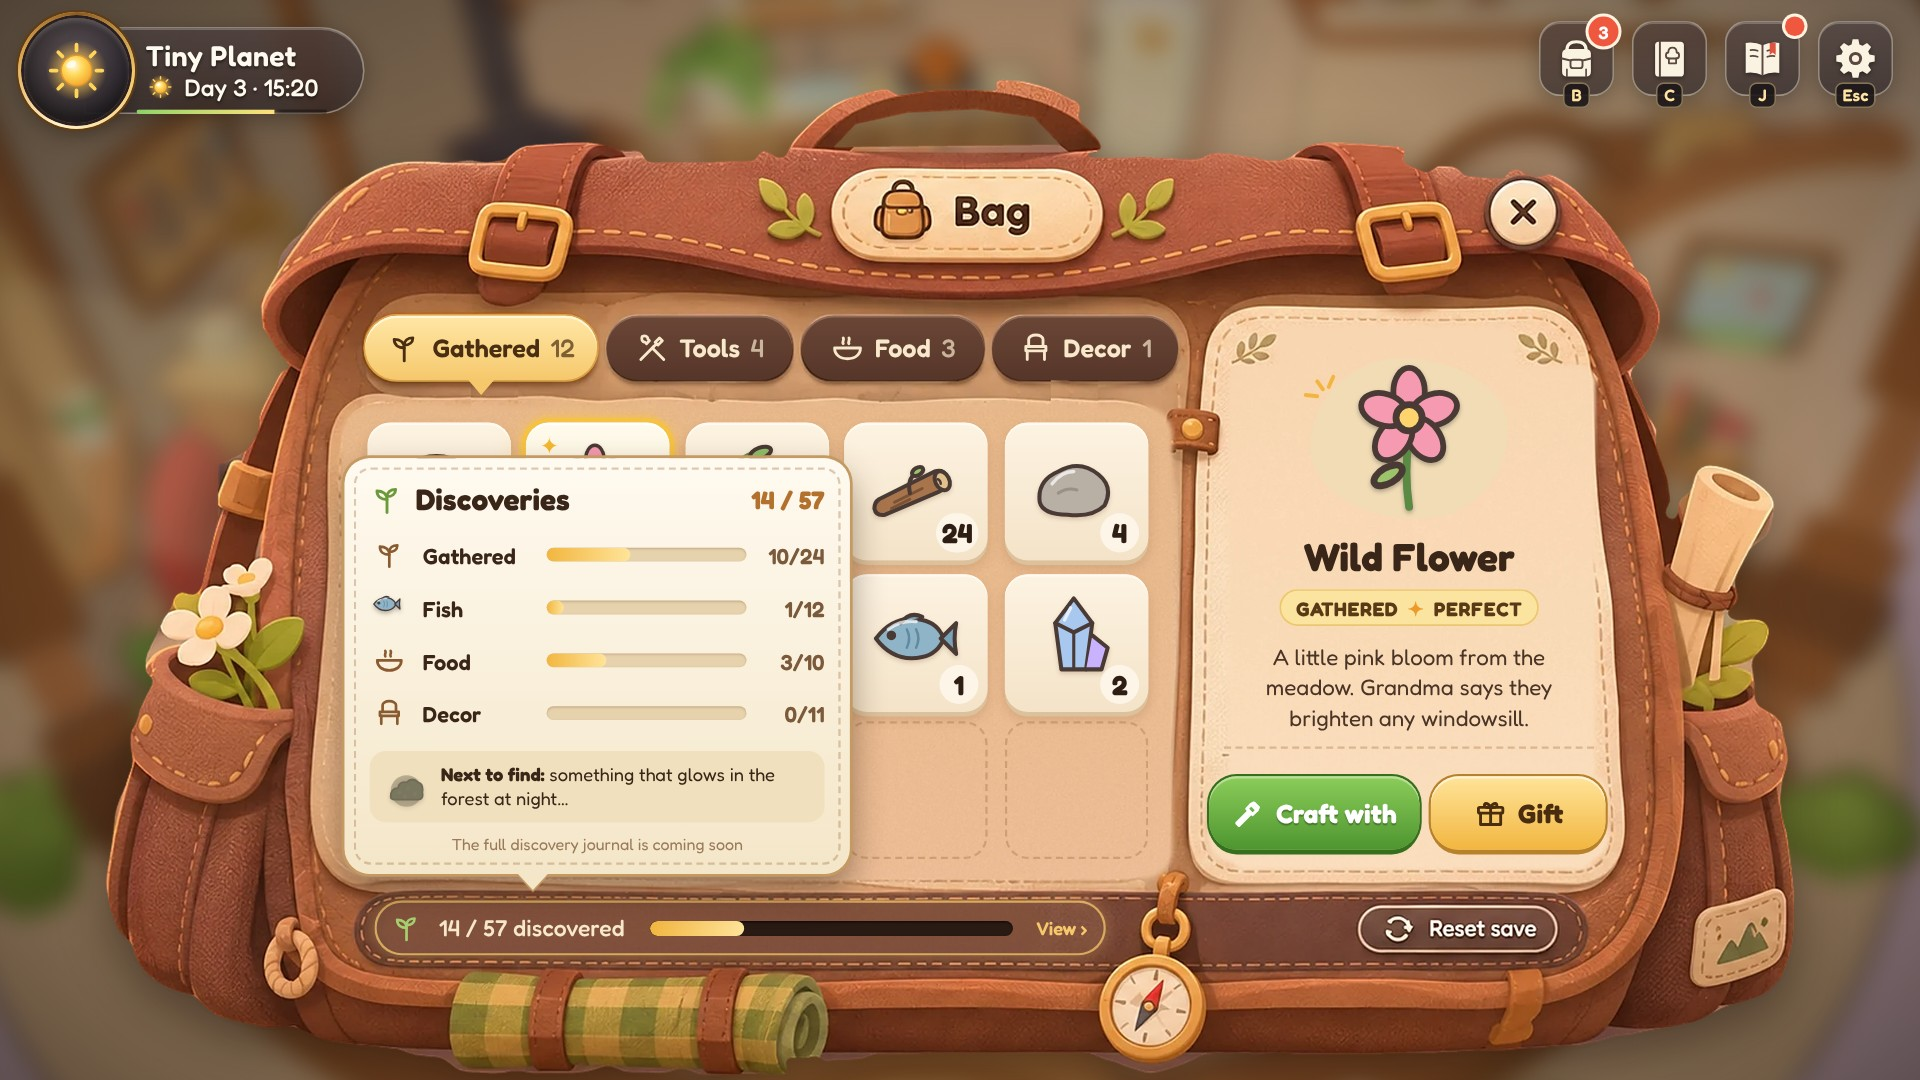
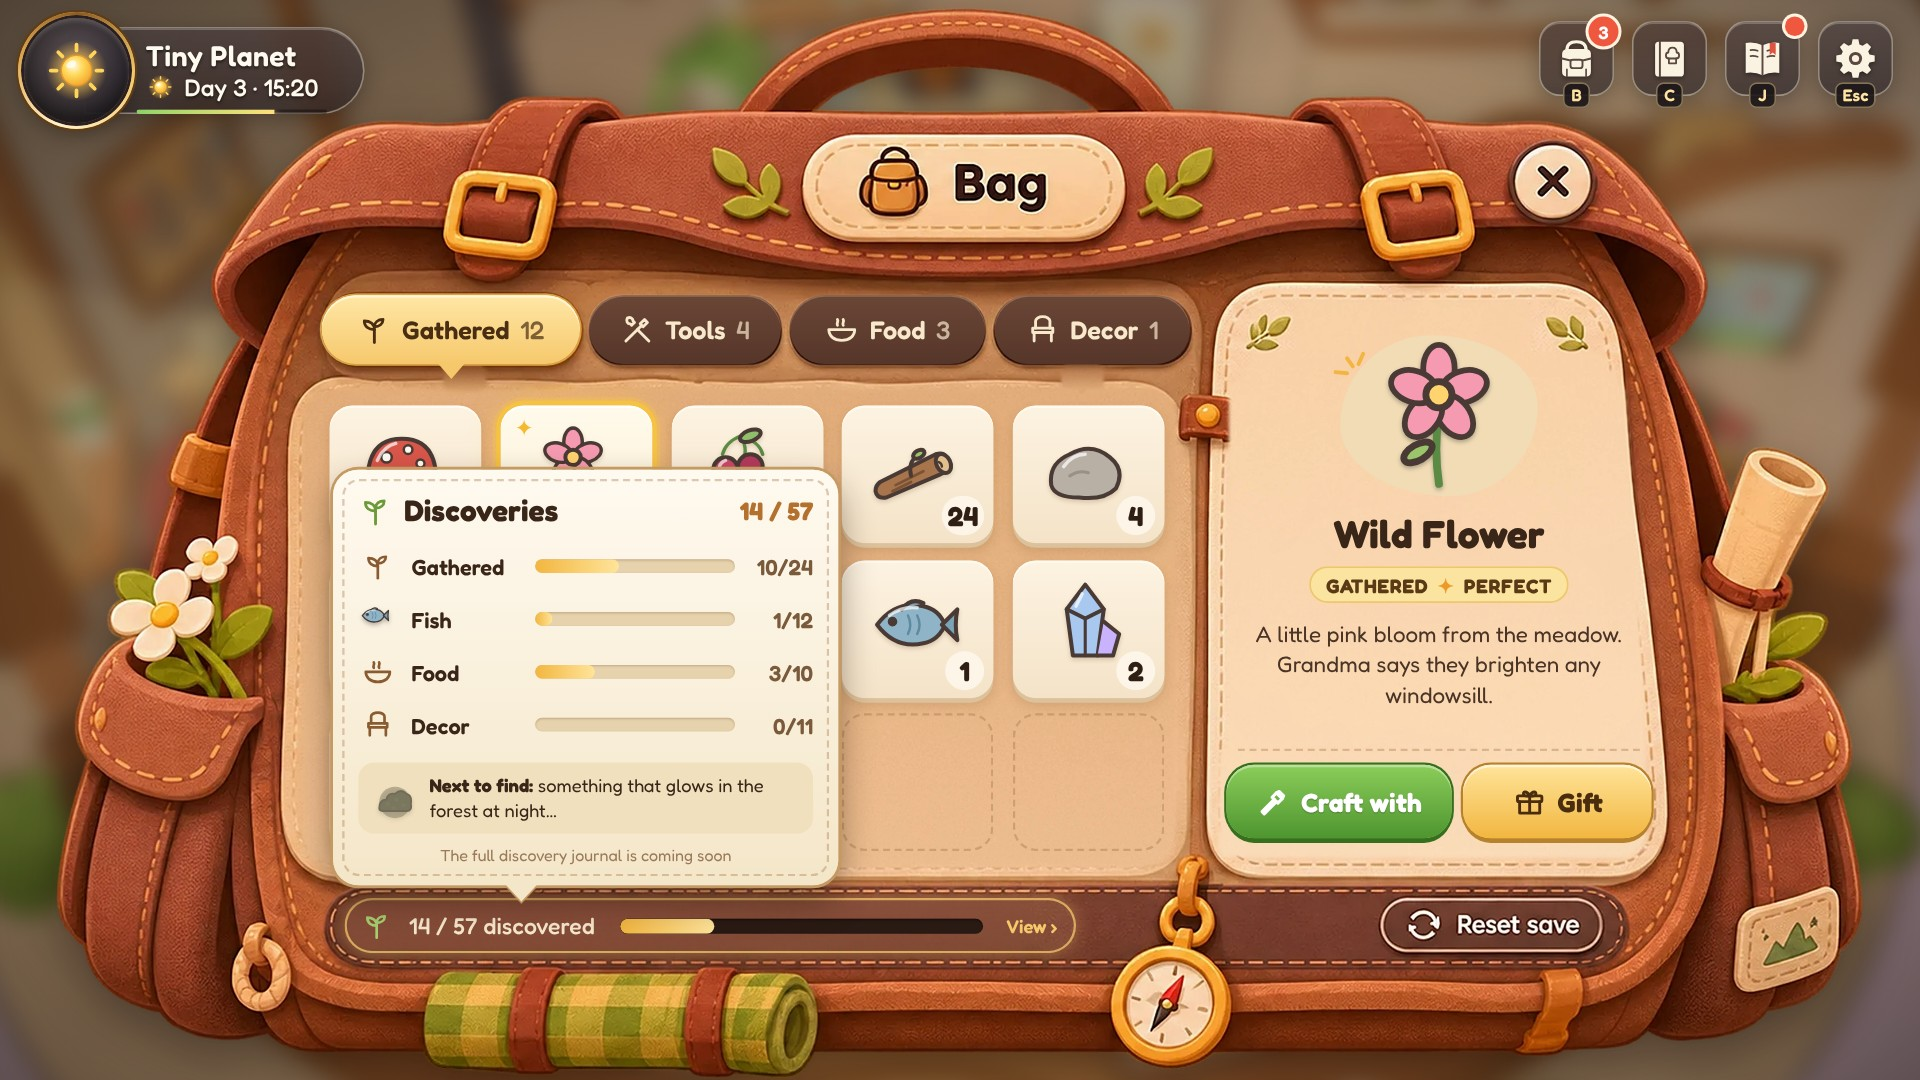
Bag mock: switch to the clean transparent bag art (ref2), re-mapped live layer + hotspots
Claude-Session: https://claude.ai/code/session_01CNaBwLKpSJahPyEzLh7zFH

diff --git a/ui-mocks/a/bag3.html b/ui-mocks/a/bag3.html
@@ -10,13 +10,13 @@ html,body{margin:0;width:1280px;height:720px;overflow:hidden;background:#3a2a20}
 /* the bag is authored in the reference image's own pixel space (1672x941) and scaled to fit */
 .bag{position:absolute;left:0;top:0;width:1672px;height:941px;transform-origin:0 0;transform:scale(.7656);font-family:var(--font);color:#3a2618;text-shadow:none}
 .bag>img{position:absolute;inset:0;width:100%;height:100%;filter:drop-shadow(0 16px 22px rgba(20,8,2,.45))}
-.tb{position:absolute;top:275px;height:56px;border-radius:28px;display:flex;align-items:center;justify-content:center;gap:9px;font-size:22px;font-weight:600;color:#f8e8cc;
+.tb{position:absolute;top:257px;height:60px;border-radius:30px;display:flex;align-items:center;justify-content:center;gap:9px;font-size:22px;font-weight:600;color:#f8e8cc;
   background:linear-gradient(180deg,#6a4636,#56362a);box-shadow:inset 0 1.5px 0 rgba(255,220,180,.25),0 3px 4px rgba(40,20,8,.35)}
 .tb i{font-style:normal;font-weight:500;opacity:.7}
 .tb svg{width:30px;height:30px}
 .tb.on{color:#4a2e14;background:linear-gradient(180deg,#ffe7a6,#f6c86c);box-shadow:inset 0 2px 0 #fff6d8,0 0 0 1.5px #d9a24a,0 3px 6px rgba(120,70,20,.35)}
 .tb.on::after{content:'';position:absolute;left:50%;bottom:-13px;margin-left:-12px;border:12px solid transparent;border-bottom:0;border-top:14px solid #f6c86c}
-.t{position:absolute;width:125px;height:120px;border-radius:20px;display:grid;place-items:center;background:linear-gradient(180deg,#fdf3e2,#f4e3c8);
+.t{position:absolute;width:132px;height:120px;border-radius:20px;display:grid;place-items:center;background:linear-gradient(180deg,#fdf3e2,#f4e3c8);
   box-shadow:0 4px 0 #dcc29c,0 6px 10px rgba(110,70,30,.18),inset 0 2px 0 #fffaf0}
 .t .it{width:86px;height:86px;margin:-8px 0 0 -6px}
 .t .it svg{filter:drop-shadow(0 2px 2px rgba(110,70,30,.22))}
@@ -24,7 +24,7 @@ html,body{margin:0;width:1280px;height:720px;overflow:hidden;background:#3a2a20}
 .t.sel{background:linear-gradient(180deg,#fffaec,#fcefd2);box-shadow:0 0 0 4px #f5c242,0 0 0 7px rgba(245,194,66,.3),0 0 22px rgba(255,200,80,.6),inset 0 2px 0 #fff}
 .t .sp{position:absolute;left:12px;top:8px;color:#f5b830;font-size:20px}
 .t.e{background:none;box-shadow:none;border:2.5px dashed rgba(170,125,80,.45)}
-.card{position:absolute;left:1066px;top:300px;width:322px;height:448px;display:flex;flex-direction:column;align-items:center;text-align:center}
+.card{position:absolute;left:1078px;top:280px;width:350px;height:470px;display:flex;flex-direction:column;align-items:center;text-align:center}
 .blob{position:relative;width:200px;height:156px;display:grid;place-items:center;margin-top:4px}
 .blob::before{content:'';position:absolute;inset:8px 14px;background:#f1dcb6;border-radius:46% 54% 44% 56%/56% 44% 56% 44%}
 .blob .it{position:relative;width:146px;height:146px}
@@ -34,19 +34,19 @@ html,body{margin:0;width:1280px;height:720px;overflow:hidden;background:#3a2a20}
 .card .pil b{color:#ec9a2a}
 .card p{font-size:19.5px;line-height:1.35;color:#4a3426;margin:14px 6px 0}
 .card .ln{width:100%;border-top:2px dashed rgba(170,125,80,.4);margin:auto 0 0}
-.acts{position:absolute;left:1053px;top:676px;width:345px;display:flex;gap:10px}
+.acts{position:absolute;left:1068px;top:666px;width:370px;display:flex;gap:10px}
 .bt{flex:1;height:64px;border-radius:24px;display:flex;align-items:center;justify-content:center;gap:9px;font-size:23px;font-weight:700}
 .bt svg{width:30px;height:30px}
 .bt.g{flex:1.2;color:#fff;text-shadow:0 1px 1px rgba(0,0,0,.3);background:linear-gradient(180deg,#8ccd5a,#4e9530);box-shadow:0 0 0 2px #36701e,0 4px 0 #36701e,inset 0 2px 0 rgba(255,255,255,.4)}
 .bt.y{color:#4a2c0e;background:linear-gradient(180deg,#ffe49a,#f2b640);box-shadow:0 0 0 2px #b8822c,0 4px 0 #b8822c,inset 0 2px 0 rgba(255,255,255,.6)}
-.foot{position:absolute;left:326px;top:784px;height:48px;padding:0 16px 0 14px;border:0;border-radius:24px;background:none;font-family:inherit;cursor:pointer;display:flex;align-items:center;gap:14px;font-size:20px;font-weight:500;color:#f8e8cc;transition:background .15s,box-shadow .15s}
+.foot{position:absolute;left:300px;top:782px;height:48px;padding:0 16px 0 14px;border:0;border-radius:24px;background:none;font-family:inherit;cursor:pointer;display:flex;align-items:center;gap:14px;font-size:20px;font-weight:500;color:#f8e8cc;transition:background .15s,box-shadow .15s}
 .foot .more{font-size:16px;font-weight:600;color:#f6c86c;opacity:0;margin-left:6px;transition:opacity .15s}
 .foot:hover,.foot.on{background:rgba(255,220,150,.10);box-shadow:inset 0 0 0 2px rgba(246,200,108,.75),0 0 16px rgba(246,200,108,.35)}
 .foot:hover .more,.foot.on .more{opacity:1}
 .hot{position:absolute;border:0;background:none;cursor:pointer;border-radius:36px}
 .hot:hover{background:rgba(255,240,200,.12)}
 body.debug .hot,body.debug .foot{outline:3px dashed #39f;outline-offset:2px;background:rgba(51,153,255,.15)}
-.disc{position:absolute;left:300px;bottom:180px;width:440px;padding:20px 22px 18px;border-radius:22px;color:#3a2618;
+.disc{position:absolute;left:290px;bottom:170px;width:440px;padding:20px 22px 18px;border-radius:22px;color:#3a2618;
   background:linear-gradient(180deg,#fffaf0,#f4e6c8);box-shadow:0 0 0 2.5px #c49a62,0 14px 30px rgba(40,20,8,.45)}
 .disc::before{content:'';position:absolute;inset:8px;border-radius:15px;border:2px dashed rgba(170,125,80,.4);pointer-events:none}
 .disc::after{content:'';position:absolute;left:150px;bottom:-14px;border:14px solid transparent;border-bottom:0;border-top:15px solid #f4e6c8;filter:drop-shadow(0 2.5px 0 #c49a62)}
@@ -79,8 +79,8 @@ const DISC = `<div class="disc"><div class="dh">${I.sprout}<b>Discoveries</b><sp
   ${[['sprout', 'Gathered', 10, 24], ['fish', 'Fish', 1, 12], ['bowl', 'Food', 3, 10], ['chair', 'Decor', 0, 11]].map(([ic, n, a, b]) => `<div class="dr"><span class="di">${ic === 'fish' ? `<span class="it">${IC.fish_nw}</span>` : I[ic]}</span><span class="dn">${n}</span><span class="dm"><i style="width:${a / b * 100}%"></i></span><span class="dc">${a}/${b}</span></div>`).join('')}
   <div class="dnext"><span class="it">${IC.glowmoss_nw}</span><span><b>Next to find:</b> something that glows in the forest at night…</span></div>
   <div class="dsoon">The full discovery journal is coming soon</div></div>`
-const tabs = [['Gathered', 12, 'sprout', 318, 202, !FOOD], ['Tools', 4, 'tools', 528, 162], ['Food', 3, 'bowl', 698, 159, FOOD], ['Decor', 1, 'chair', 864, 162]]
-const COLS = [320, 458, 597, 735, 875], ROWS = [368, 500, 628]
+const tabs = [['Gathered', 12, 'sprout', 280, 225, !FOOD], ['Tools', 4, 'tools', 513, 167], ['Food', 3, 'bowl', 688, 170, FOOD], ['Decor', 1, 'chair', 866, 170]]
+const COLS = [287, 436, 585, 733, 882], ROWS = [353, 488, 621]
 const items = FOOD ? [['onigiri', 2], ['soup', 1, 1], ['jam', 3], [null], [null], [null], [null], [null], [null], [null], [null], [null], [null], [null], [null]] : [['mushroom', 3], ['flower', 5, 1], ['berries', 12], ['wood', 24], ['stone', 4], ['shell', 2], ['herbs', 6], ['acorn', 3], ['fish', 1], ['crystal', 2], ['moss', 7], ['pinecone', 4], [null], [null], [null]]
 document.getElementById('root').innerHTML = `
 <div class="abs ident" style="left:16px;top:12px"><div class="ring"><span class="wx" style="display:block">${WX.clear}</span></div>
@@ -88,7 +88,7 @@ document.getElementById('root').innerHTML = `
 <div class="abs" style="right:18px;top:14px;display:flex;gap:12px">
   <div class="glass sqbtn">${gl('bag')}<span class="dot n">3</span><span class="kc">B</span></div><div class="glass sqbtn">${gl('recipes')}<span class="kc">C</span></div>
   <div class="glass sqbtn">${gl('journal')}<span class="dot"></span><span class="kc">J</span></div><div class="glass sqbtn">${gl('gear')}<span class="kc">Esc</span></div></div>
-<div class="bag"><img src="ref/bag-frame.webp" srcset="ref/bag-frame.webp 1x, ref/bag-frame@2x.webp 2x" alt="">
+<div class="bag"><img src="ref2/bag-frame.webp" srcset="ref2/bag-frame.webp 1x, ref2/bag-frame@2x.webp 2x" alt="">
   ${tabs.map(([n, c, ic, x, w, on]) => `<div class="tb${on ? ' on' : ''}" style="left:${x}px;width:${w}px">${I[ic]}${n} <i>${c}</i></div>`).join('')}
   ${items.map(([id, n, s], k) => { const x = COLS[k % 5], y = ROWS[(k / 5) | 0]
     return id ? `<div class="t${s ? ' sel' : ''}" style="left:${x}px;top:${y}px">${it(id)}<span class="n">${n}</span>${s ? '<span class="sp">✦</span>' : ''}</div>` : `<div class="t e" style="left:${x}px;top:${y}px"></div>` }).join('')}
@@ -99,9 +99,9 @@ document.getElementById('root').innerHTML = `
     <div class="ln" style="margin-bottom:96px"></div></div>
   <div class="acts"><span class="bt g">${FOOD ? I.bowl + 'Eat' : I.hammer + 'Craft with'}</span><span class="bt y">${I.gift}Gift</span></div>
   <button class="foot${Q.get('disc') ? ' on' : ''}" aria-label="Discoveries, 14 of 57 found">${I.sprout}14 / 57 discovered<span class="m"><i></i></span><span class="more">View ›</span></button>
-  <button class="hot" style="left:726px;top:150px;width:232px;height:72px" aria-label="Bag" data-act="none"></button>
-  <button class="hot" style="left:1294px;top:153px;width:64px;height:64px;border-radius:50%" aria-label="Close bag" data-act="close"></button>
-  <button class="hot" style="left:1184px;top:788px;width:172px;height:42px;border-radius:21px" aria-label="Reset save" data-act="reset"></button>
+  <button class="hot" style="left:700px;top:118px;width:276px;height:88px" aria-label="Bag" data-act="none"></button>
+  <button class="hot" style="left:1316px;top:121px;width:72px;height:72px;border-radius:50%" aria-label="Close bag" data-act="close"></button>
+  <button class="hot" style="left:1203px;top:782px;width:192px;height:46px;border-radius:23px" aria-label="Reset save" data-act="reset"></button>
   ${Q.get('disc') ? DISC : ''}
 </div>`
 </script></body></html>

diff --git a/ui-mocks/a/ref2/frame.py b/ui-mocks/a/ref2/frame.py
@@ -1,0 +1,32 @@
+# Turn the clean bag art (transparent background) into an empty frame: repaint the item grid, the detail
+# card's contents and the footer counter with the surface colour, so the game draws live content on top.
+import sys, random, statistics
+from PIL import Image, ImageDraw, ImageFilter
+im = Image.open(sys.argv[1]).convert('RGBA'); px = im.load(); random.seed(3)
+def med(pts): return tuple(int(statistics.median(px[x, y][i] for x, y in pts)) for i in range(3))
+def fill(shapes, top, bot, y0, y1, feather=2.0, grain=3, holes=()):
+    mask = Image.new('L', im.size, 0); d = ImageDraw.Draw(mask)
+    for b, r in shapes:
+        if r == 'poly': d.polygon(b, fill=255)
+        else: d.rounded_rectangle(b, r, fill=255)
+    for b, r in holes: d.rounded_rectangle(b, r, fill=0)
+    mk = mask.filter(ImageFilter.GaussianBlur(feather)).load()
+    X0, Y0, X1, Y1 = mask.getbbox(); X0 -= 4; Y0 -= 4; X1 += 4; Y1 += 4
+    for y in range(Y0, Y1 + 1):
+        t = min(1, max(0, (y - y0) / (y1 - y0))); c = [top[i] * (1 - t) + bot[i] * t for i in range(3)]
+        for x in range(X0, X1 + 1):
+            a = mk[x, y]
+            if a:
+                o = px[x, y]; k = a / 255; n = random.uniform(-grain, grain)
+                px[x, y] = tuple(int(o[i] * (1 - k) + (c[i] + n) * k) for i in range(3)) + (o[3],)
+GAPS = [428, 577, 725, 874]
+gt = med([(x, 343) for x in GAPS] + [(x, 347) for x in GAPS]); gb = med([(x, 748) for x in GAPS] + [(x, 744) for x in GAPS])
+fill([((264, 340, 1022, 752), 22)], gt, gb, 340, 752)
+ct = med([(1100, 330), (1400, 330), (1240, 268), (1090, 400)]); cb = med([(1090, 640), (1420, 640), (1250, 650)])
+fill([([(1086,322),(1404,322),(1414,340),(1425,500),(1432,640),(1433,730),(1420,746),(1080,746),(1070,730),(1070,340)], 'poly'), ((1086, 306, 1400, 350), 14), ((1128, 262, 1332, 312), 12), ((1061, 650, 1110, 745), 10)], ct, cb, 262, 746, 1.6, 2)
+ft = med([(940, 789), (960, 789), (1150, 789)]); fb = med([(940, 820), (960, 820), (1150, 820)])
+fill([((302, 785, 900, 826), 18)], ft, fb, 785, 826, 1.5, 2)
+# baked active-tab pointers on the panel rim (live tabs draw their own)
+for cx in (404, 942):
+    fill([((cx - 18, 317, cx + 18, 340), 6)], med([(cx - 40, 322), (cx + 40, 322)]), med([(cx - 40, 336), (cx + 40, 336)]), 317, 340, 1.5, 2)
+im.save(sys.argv[2])
